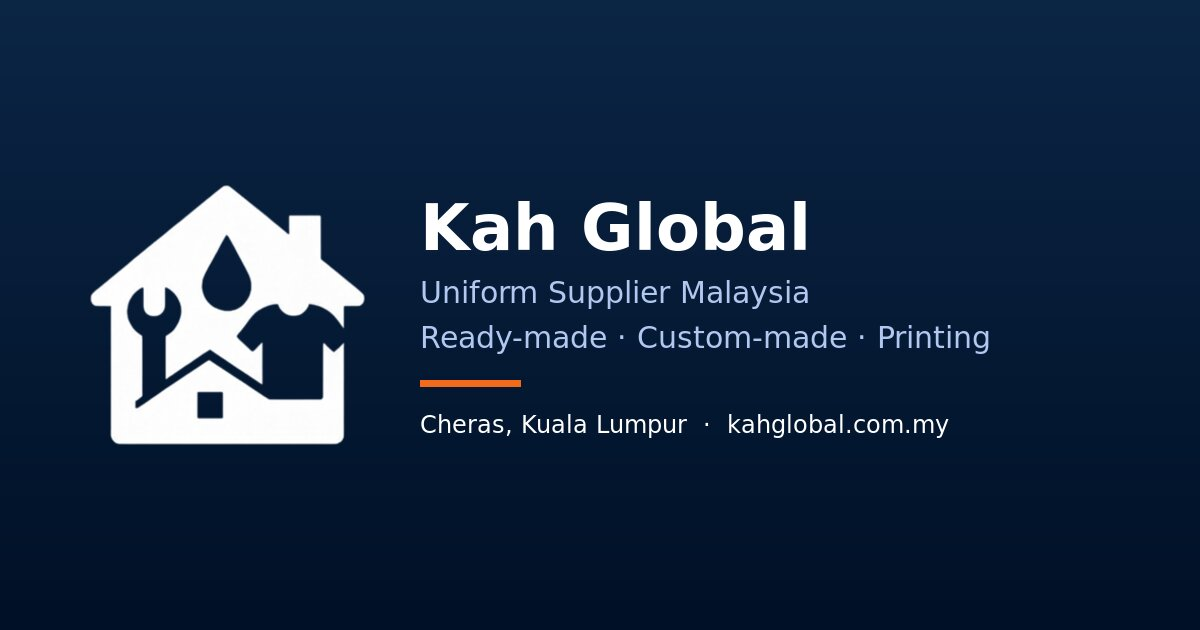
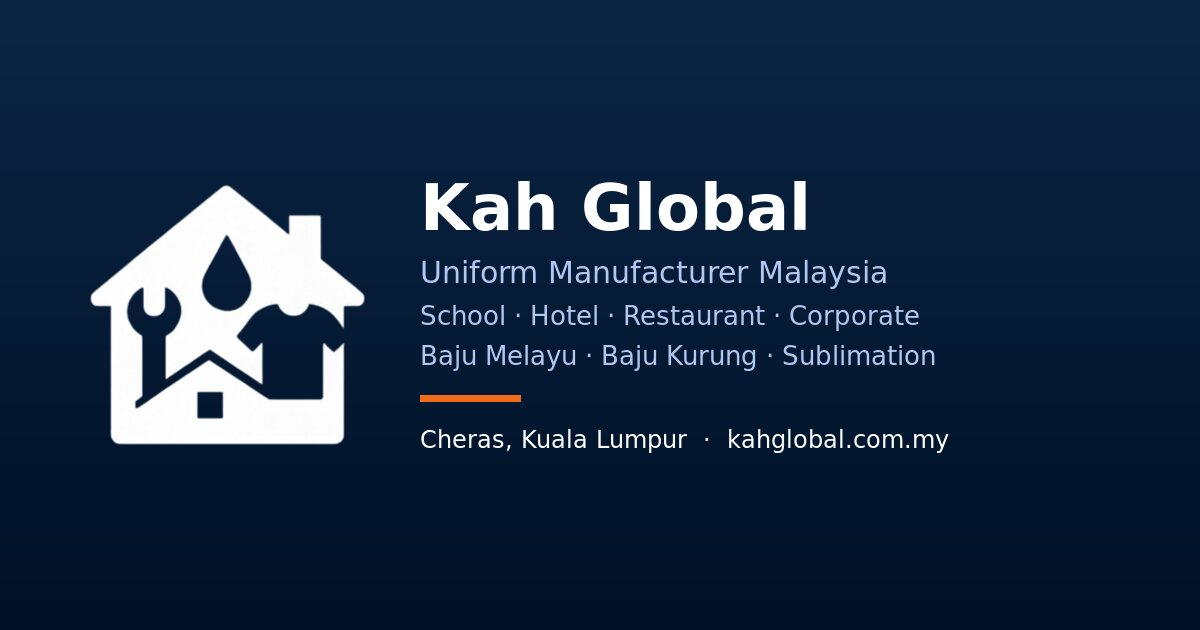
Use manufacturer wording in site-wide metadata, footer and share image
Claude-Session: https://claude.ai/code/session_01DfajATBAM8Yto8oYYPCKzU

Changed region(s): [[0.3392, 0.2714, 0.8325, 0.7238]]

diff --git a/src/app/layout.tsx b/src/app/layout.tsx
@@ -13,9 +13,9 @@ const manrope = Manrope({
   display: 'swap',
 });
 
-const defaultTitle = 'Uniform Supplier Malaysia | Corporate Uniform Kuala Lumpur | Kah Global';
+const defaultTitle = 'Uniform Manufacturer Malaysia | School, Hotel & Corporate Uniforms | Kah Global';
 const defaultDescription =
-  'Kah Global Sdn Bhd — uniform supplier in Cheras, Kuala Lumpur since 2014. Ready-made & custom-made corporate uniforms (baju korporat), polo shirts and t-shirts with embroidery, silkscreen, sublimation & DTF printing.';
+  'Kah Global Sdn Bhd — uniform manufacturer in Cheras, Kuala Lumpur since 2014. School, hotel, restaurant and corporate uniforms, sublimation t-shirts, Baju Melayu, Baju Kurung and Malay traditional wear, with embroidery and printing.';
 
 export const metadata: Metadata = {
   metadataBase: new URL(SITE_URL),

diff --git a/src/app/(site)/contact/page.tsx b/src/app/(site)/contact/page.tsx
@@ -9,10 +9,10 @@ import { ButtonAnchor } from '@/components/ui/Button';
 import { WhatsAppIcon } from '@/components/ui/WhatsAppIcon';
 
 export const metadata = pageMetadata({
-  title: 'Contact Kah Global — Uniform Supplier in Cheras, Kuala Lumpur',
+  title: 'Contact Kah Global — Uniform Manufacturer in Cheras, Kuala Lumpur',
   description: `Contact ${company.name} in Cheras, Kuala Lumpur. WhatsApp ${contact.whatsapp.display}, call ${contact.mobile.display} or ${contact.office.display}, or email ${contact.email} for uniform quotations.`,
   path: '/contact',
-  keywords: ['uniform shop Cheras', 'uniform supplier near me KL', 'Kah Global contact'],
+  keywords: ['uniform manufacturer Cheras', 'uniform supplier near me KL', 'Kah Global contact'],
 });
 
 const channels = [

diff --git a/src/app/(site)/page.tsx b/src/app/(site)/page.tsx
@@ -47,7 +47,7 @@ const pathways = [
     moq: `MOQ ${terms.customMadeMoq} pcs`,
     title: 'Custom-Made Uniforms',
     description:
-      'Your design, made in our Cheras workshop — choose the fabric, cut, colours, collar and details to match your brand and work environment.',
+      'Your own design, manufactured in our Cheras facility — choose the fabric, cut, colours and details to match your brand.',
     points: ['Fabric, cut and colour tailored to you', 'Colour blocking, piping and custom details', 'Physical sample before bulk production'],
     imageKey: 'home-path-custom' as const,
     imageAlt: 'Fabric swatches and pattern pieces on a design table',

diff --git a/src/lib/seo.ts b/src/lib/seo.ts
@@ -3,6 +3,7 @@ import { company, SITE_URL } from '@/data/site';
 
 /** Core search phrases the site targets. Pages add their own specific terms. */
 export const CORE_KEYWORDS = [
+  'uniform manufacturer Malaysia',
   'uniform supplier Malaysia',
   'corporate uniform Kuala Lumpur',
   'baju korporat',
@@ -22,7 +23,7 @@ type PageSeo = {
   absoluteTitle?: boolean;
 };
 
-const DEFAULT_IMAGE = { url: '/og-image.jpg', alt: `${company.name} — uniform supplier in Cheras, Kuala Lumpur` };
+const DEFAULT_IMAGE = { url: '/og-image.jpg', alt: `${company.name} — uniform manufacturer in Cheras, Kuala Lumpur` };
 
 export function pageMetadata({
   title,

diff --git a/src/components/layout/Footer.tsx b/src/components/layout/Footer.tsx
@@ -136,7 +136,7 @@ export async function Footer() {
           <p>
             © {CURRENT_YEAR} {company.name} ({company.registration}). All rights reserved.
           </p>
-          <p>Uniform supplier in Cheras, Kuala Lumpur, Malaysia.</p>
+          <p>Uniform & traditional wear manufacturer in Cheras, Kuala Lumpur, Malaysia.</p>
         </div>
       </div>
     </footer>
